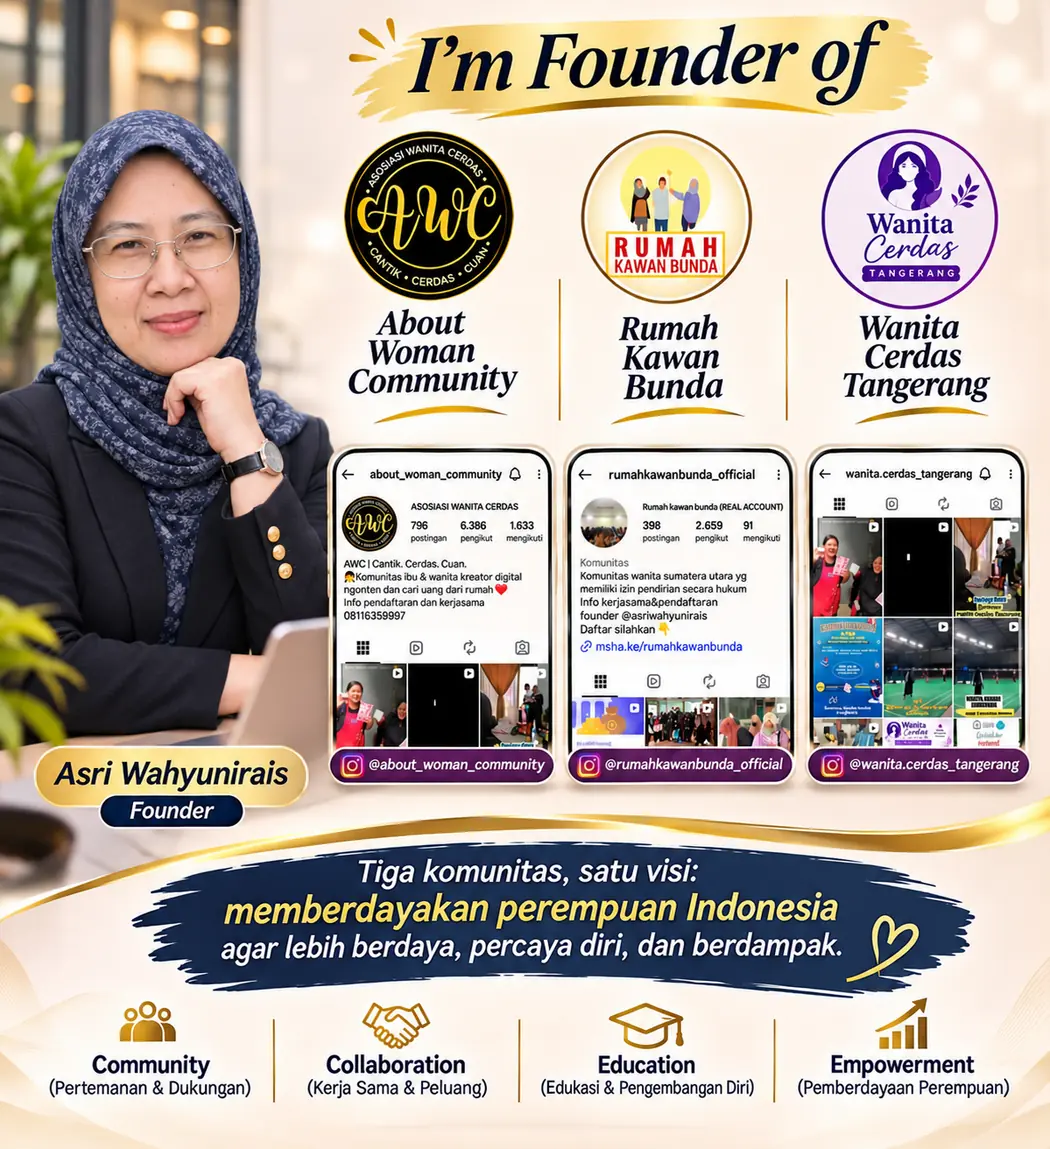
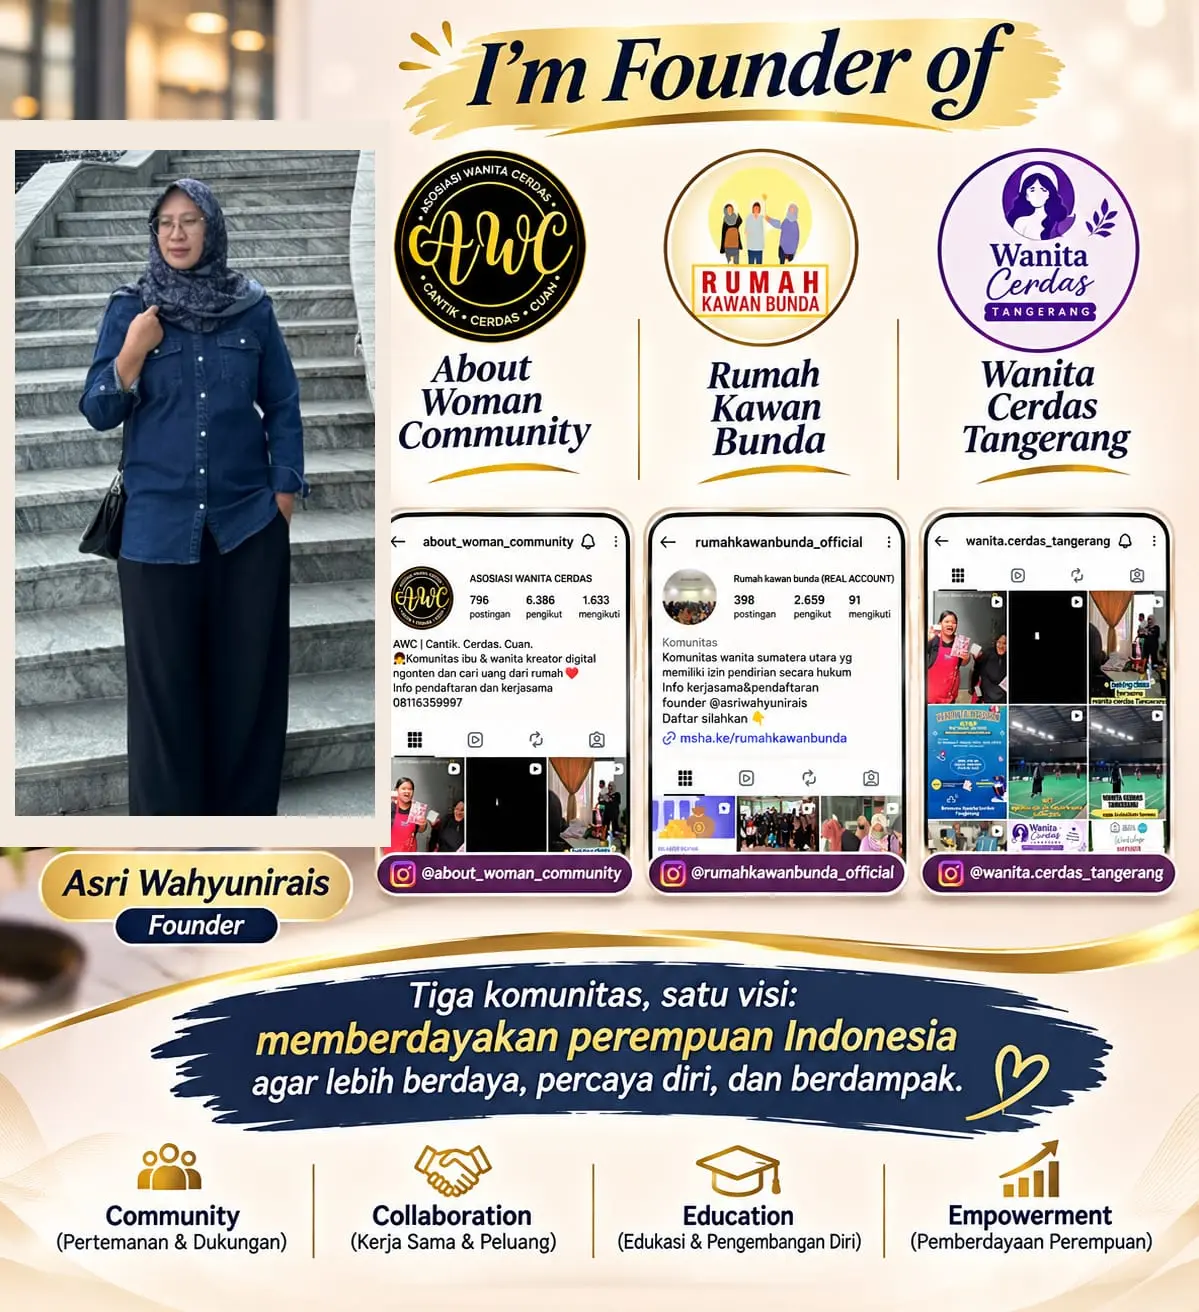
fix(asriwahyuni): replace AI portraits with crops of original photo (#99)

diff --git a/src/components/AsriLifestylePage.tsx b/src/components/AsriLifestylePage.tsx
@@ -62,7 +62,7 @@ export default function AsriLifestylePage({ editorMode = false }: { editorMode?:
         <div className="ayu-hero-inner">
           <div className="ayu-hero-label"><span data-studio-edit="name">{profile.displayName.toUpperCase()}.</span><span>PERSONAL BRAND</span></div>
           <div className="ayu-hero-image-wrap">
-            <img data-studio-edit="portrait" src={photo} alt={photo === visualHero ? 'Asri Wahyuni (Ayu) berkacamata dan berhijab navy dalam suasana ruang kerja profesional' : profile.portrait.alt} className="ayu-hero-image" fetchPriority="high" />
+            <img data-studio-edit="portrait" src={photo} alt={photo === visualHero ? 'Foto asli Asri Wahyuni (Ayu) mengenakan hijab navy dan kemeja denim di tangga, dipotong lebih dekat' : profile.portrait.alt} className="ayu-hero-image" fetchPriority="high" />
           </div>
           <div className="ayu-hero-content">
             <div className="ayu-hero-number">01 / HOME</div>
@@ -70,7 +70,7 @@ export default function AsriLifestylePage({ editorMode = false }: { editorMode?:
             <p className="ayu-hero-role" data-studio-edit="role">{profile.role}</p>
             <p className="ayu-hero-copy" data-studio-edit="bio">{profile.intro}</p>
             <a className="ayu-primary-button" href="#about">EXPLORE MY PROFILE <ArrowDown size={21} aria-hidden="true" /></a>
-            <p className="ayu-image-note">Visual konseptual berbantuan AI</p>
+            <p className="ayu-image-note">Foto asli Asri Wahyuni · tanpa perubahan wajah</p>
           </div>
         </div>
       </section>

diff --git a/design-qa.md b/design-qa.md
@@ -207,3 +207,17 @@ Screenshots were reviewed interactively in the browser session; no screenshot fi
 - **Live mobile QA:** browser screenshot at the 390px iframe viewport confirms all four expertise images in corrected rows, clear text and dividers, responsive hero, and working `#expertise` navigation. No horizontal overflow observed.
 - **Scope:** original photography and press clipping remain attributed only to the materials supplied by the user. No changes to other client pages.
 - **Production release:** verify after GitHub merge and Vercel READY deployment.
+
+---
+
+## Klien `/asriwahyuni` — final correction: only original photo, no AI-modified model
+
+**Visual asset QA: passed** (3 November 2026)
+
+- **Latest client instruction supersedes earlier AI portrait request.** The actual user-provided 960×1280 stairway photo is the only source for the subject Ayu in the portrait, hero and community poster. No generative face replacement, skin alteration, garment replacement, or subject reconstruction is present in these three assets.
+- **Portrait:** lossless-coordinate crop of original source at `300×300+305+500`, then resized to 800×800 WebP (39 KB). Source natural staircase background retained because user explicitly asked to change only zoom/crop; not transparent.
+- **Hero:** original source crop `530×298+200+505`, resized to landscape WebP. No fake office or AI subject; copy explicitly states it is an unmodified person in the supplied photo.
+- **Community/MICE poster:** restored original supplied poster and mechanically covered the unrelated model with a rectangular crop (`300×555+310+525`) of the actual stairway photo. Three community logos, account screenshots and business-vision copy remain in the poster.
+- **Preview checks:** source-vs-final image side-by-side inspected; original face/hijab/denim preserved. Caution: close crop magnifies modest source resolution, so the actual photo looks softer than a regenerated AI portrait; preserving identity is intentional.
+- **Other photos:** original digital marketing, content creation, UMKM supporting images and link mapping remain unchanged.
+- **Release:** production deployment must be checked after GitHub merge.
